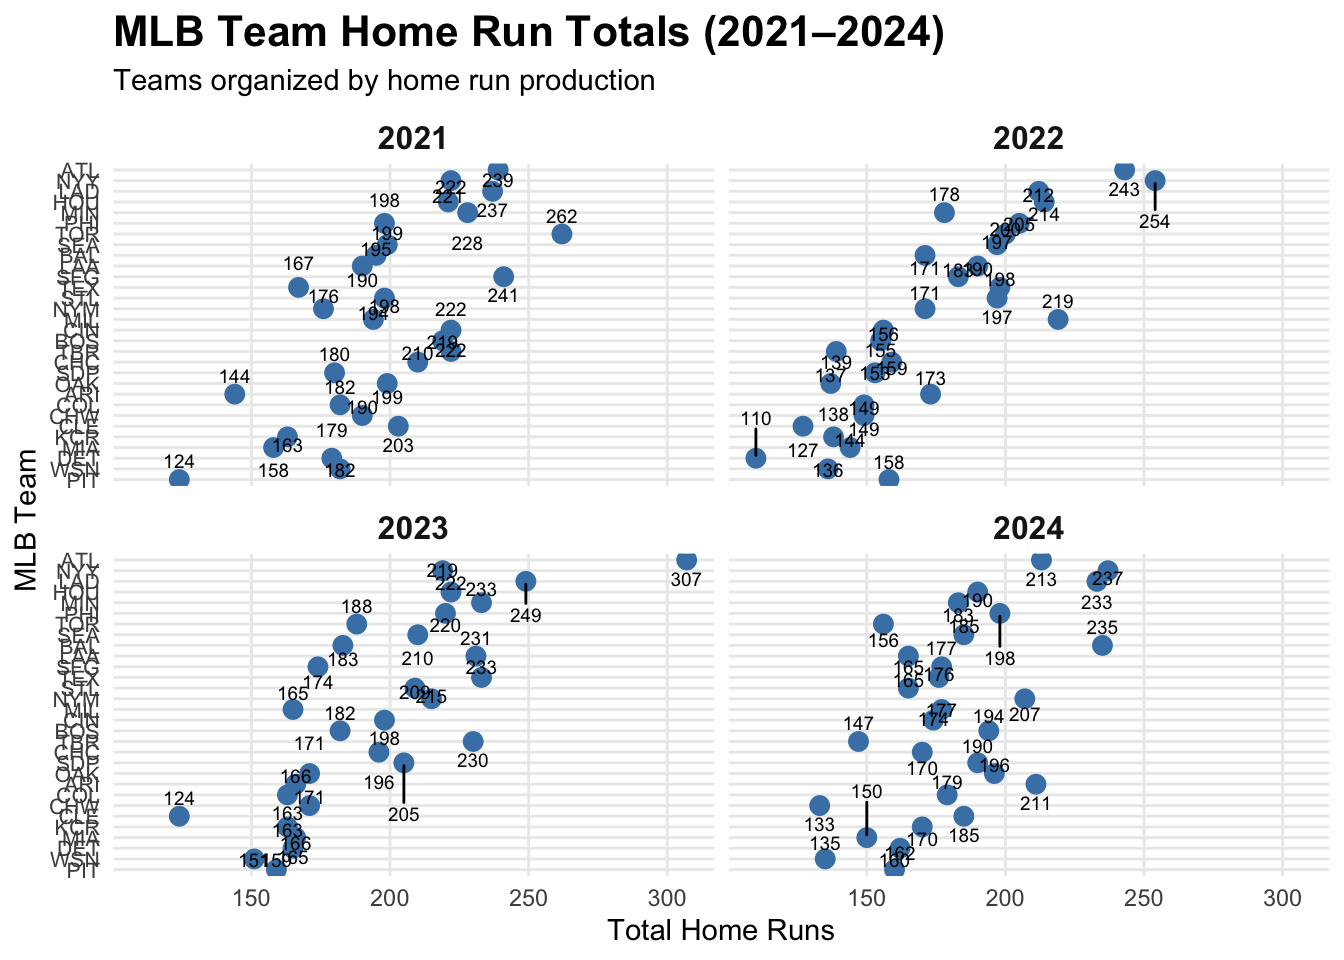
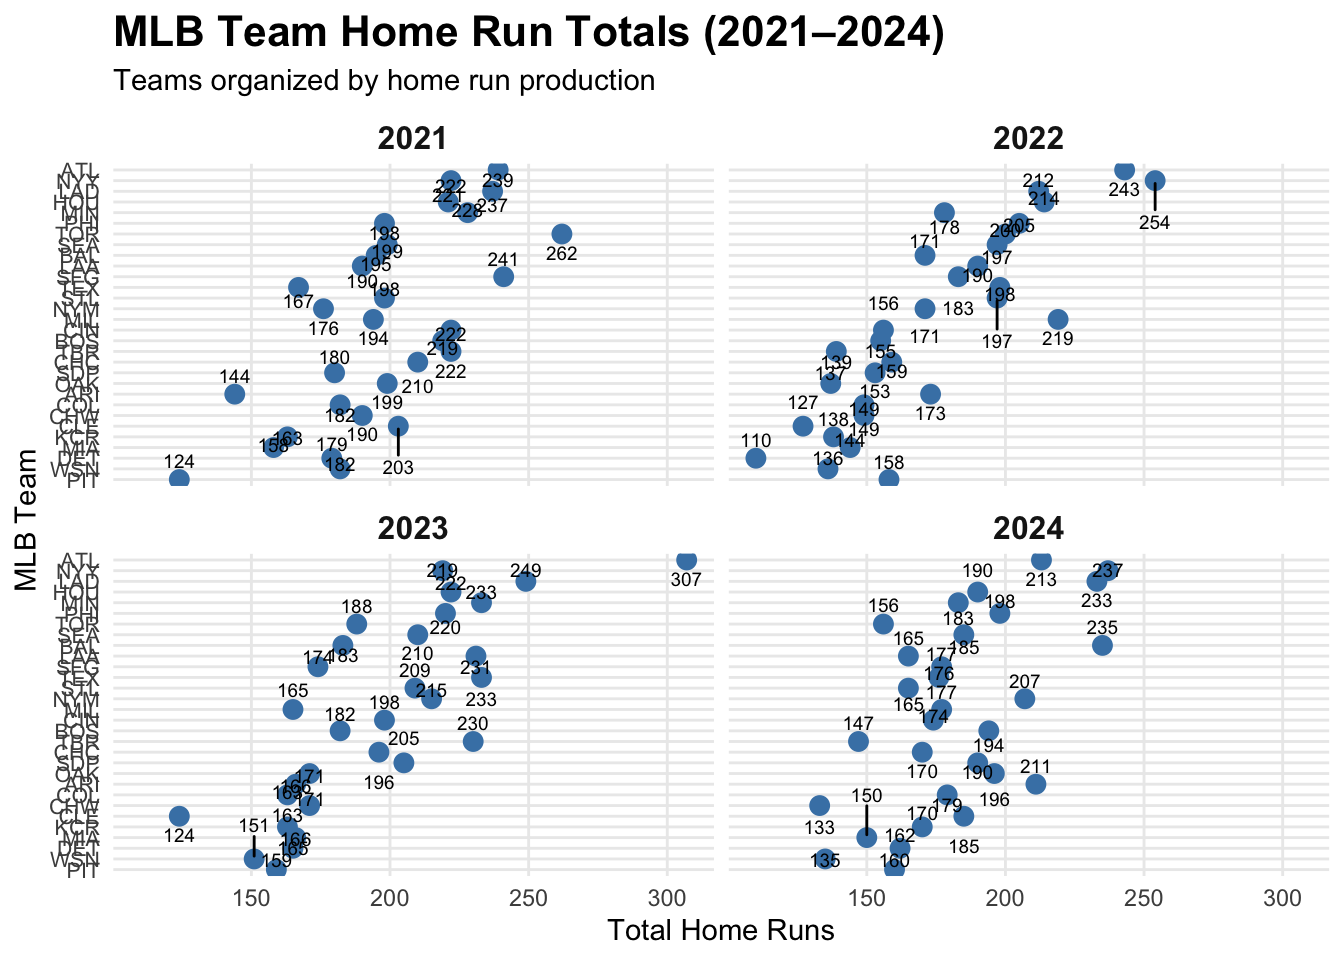
quick fix

diff --git a/index.html b/index.html
@@ -358,7 +358,7 @@ window.Quarto = {
 <!-- margin-sidebar -->
     <div id="quarto-margin-sidebar" class="sidebar margin-sidebar">
         
-    <h5 class="quarto-listing-category-title">Categories</h5><div class="quarto-listing-category category-default"><div class="category" data-category="">All <span class="quarto-category-count">(1)</span></div><div class="category" data-category="bG93ZXJjYXNld29yZA==">lowercaseword <span class="quarto-category-count">(3)</span></div></div></div>
+    <h5 class="quarto-listing-category-title">Categories</h5><div class="quarto-listing-category category-default"><div class="category" data-category="">All <span class="quarto-category-count">(1)</span></div><div class="category" data-category="YmFzZWJhbGw=">baseball <span class="quarto-category-count">(1)</span></div><div class="category" data-category="TUxC">MLB <span class="quarto-category-count">(1)</span></div><div class="category" data-category="c3VjY2Vzcw==">success <span class="quarto-category-count">(1)</span></div></div></div>
 <!-- main -->
 <main class="content quarto-banner-title-block column-page-left" id="quarto-document-content">
 
@@ -373,7 +373,7 @@ window.Quarto = {
 
 <div class="quarto-listing quarto-listing-container-default" id="listing-listing">
 <div class="list quarto-listing-default">
-<div class="quarto-post image-right" data-index="0" data-categories="bG93ZXJjYXNld29yZCUyQ2xvd2VyY2FzZXdvcmQlMkNsb3dlcmNhc2V3b3Jk" data-listing-date-sort="1793944800000" data-listing-file-modified-sort="1794428776077" data-listing-date-modified-sort="NaN" data-listing-reading-time-sort="7" data-listing-word-count-sort="1291">
+<div class="quarto-post image-right" data-index="0" data-categories="YmFzZWJhbGwlMkNNTEIlMkNzdWNjZXNz" data-listing-date-sort="1793944800000" data-listing-file-modified-sort="1794429321586" data-listing-date-modified-sort="NaN" data-listing-reading-time-sort="7" data-listing-word-count-sort="1291">
 <div class="thumbnail"><a href="./posts/major-league-baseball-success/index.html" class="no-external">
 
 <img loading="lazy" src="./posts/major-league-baseball-success/image.png" class="thumbnail-image">
@@ -385,11 +385,11 @@ window.Quarto = {
 </h3>
 <div class="listing-categories">
 
-<div class="listing-category" onclick="window.quartoListingCategory('bG93ZXJjYXNld29yZA=='); return false;">lowercaseword</div>
+<div class="listing-category" onclick="window.quartoListingCategory('YmFzZWJhbGw='); return false;">baseball</div>
 
-<div class="listing-category" onclick="window.quartoListingCategory('bG93ZXJjYXNld29yZA=='); return false;">lowercaseword</div>
+<div class="listing-category" onclick="window.quartoListingCategory('TUxC'); return false;">MLB</div>
 
-<div class="listing-category" onclick="window.quartoListingCategory('bG93ZXJjYXNld29yZA=='); return false;">lowercaseword</div>
+<div class="listing-category" onclick="window.quartoListingCategory('c3VjY2Vzcw=='); return false;">success</div>
 
 </div>
 <div class="delink listing-description"><a href="./posts/major-league-baseball-success/index.html" class="no-external">

diff --git a/posts/major-league-baseball-success/index.html b/posts/major-league-baseball-success/index.html
@@ -319,7 +319,9 @@ pre > code.sourceCode > span > a:first-child::before { text-decoration: underlin
     <div class="quarto-title column-body">
       <h1 class="title">What defines a team’s success in Major League Baseball</h1>
                                 <div class="quarto-categories">
-                <div class="quarto-category">lowercaseword</div>
+                <div class="quarto-category">baseball</div>
+                <div class="quarto-category">MLB</div>
+                <div class="quarto-category">success</div>
               </div>
                   </div>
   </div>
